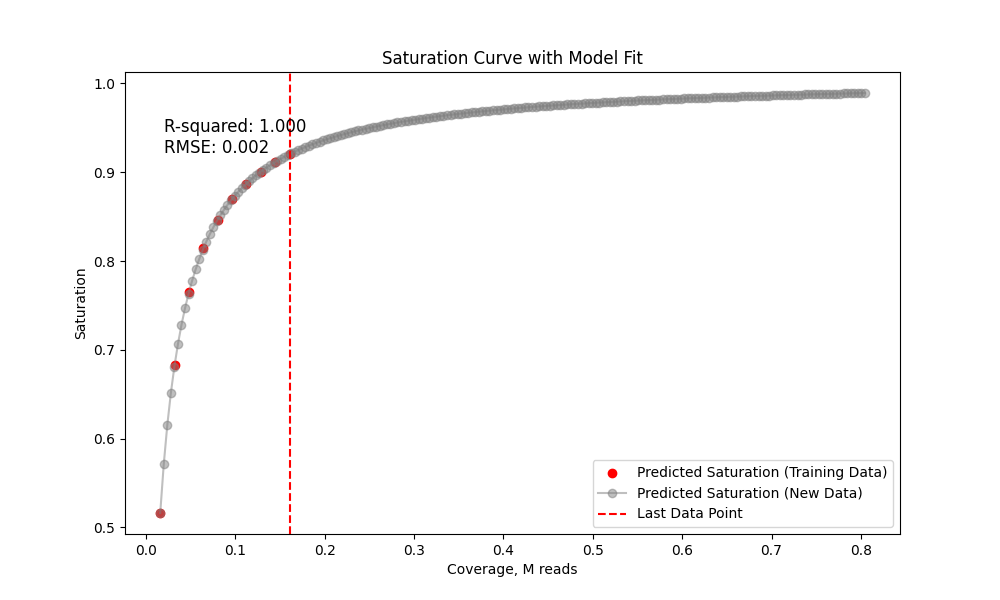
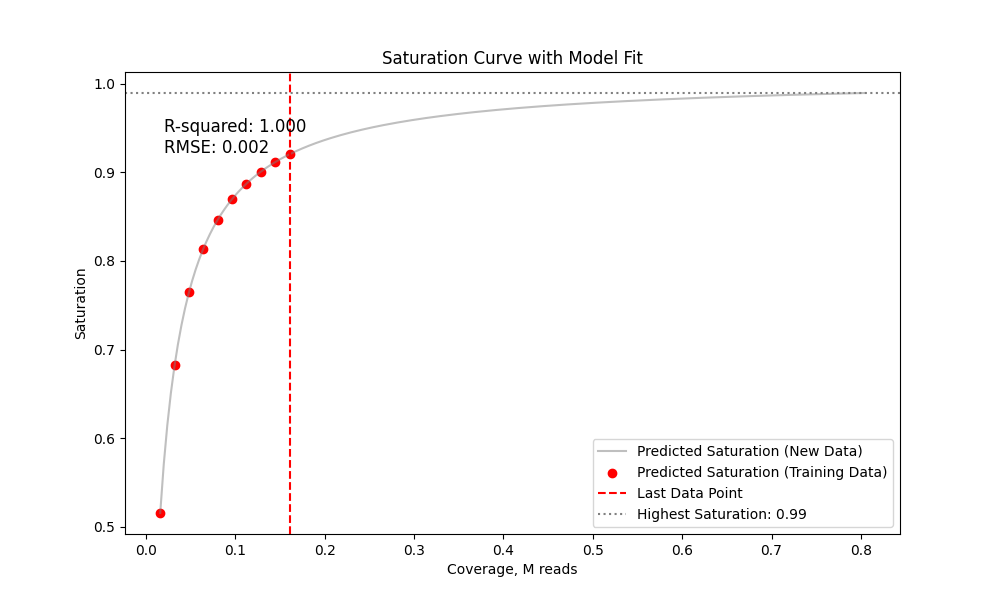
new plot

diff --git a/scripts/plot_curve.py b/scripts/plot_curve.py
@@ -42,6 +42,8 @@ except FileNotFoundError:
 da = pd.DataFrame({'ninput': np.linspace(min(d['ninput']), max(d['ninput']) * args.maxx, num=args.n_points)})
 pred_train, pred_new, popt = fit_model(d, da)
 
+highest_saturation = np.max(pred_new)
+
 # Calculate R-squared and RMSE for training data
 r2_train = r2_score(d['sat'], pred_train)
 rmse_train = np.sqrt(mean_squared_error(d['sat'], pred_train))
@@ -53,11 +55,12 @@ rmse_new = np.sqrt(mean_squared_error(d['sat'], pred_train))  # Same as training
 
 # Plotting with metrics
 plt.figure(figsize=(10, 6))
+plt.plot(da['ninput'] / 1e6, pred_new, color='gray', label='Predicted Saturation (New Data)', alpha=0.5)
 plt.scatter(d['ninput'] / 1e6, pred_train, color='red', label='Predicted Saturation (Training Data)')
-plt.plot(da['ninput'] / 1e6, pred_new, '-o', color='gray', label='Predicted Saturation (New Data)', alpha=0.5)
 plt.xlabel('Coverage, M reads')
 plt.ylabel('Saturation')
 plt.axvline(x=d.iloc[-1]['ninput'] / 1e6, color='red', linestyle='--', label='Last Data Point')
+plt.axhline(y=highest_saturation, color='grey',linestyle=':', label=f'Highest Saturation: {highest_saturation:.2f}')
 plt.title('Saturation Curve with Model Fit')
 plt.text(0.05, 0.9, f'R-squared: {r2_train:.3f}\nRMSE: {rmse_train:.3f}', transform=plt.gca().transAxes, fontsize=12, verticalalignment='top')
 plt.legend()
